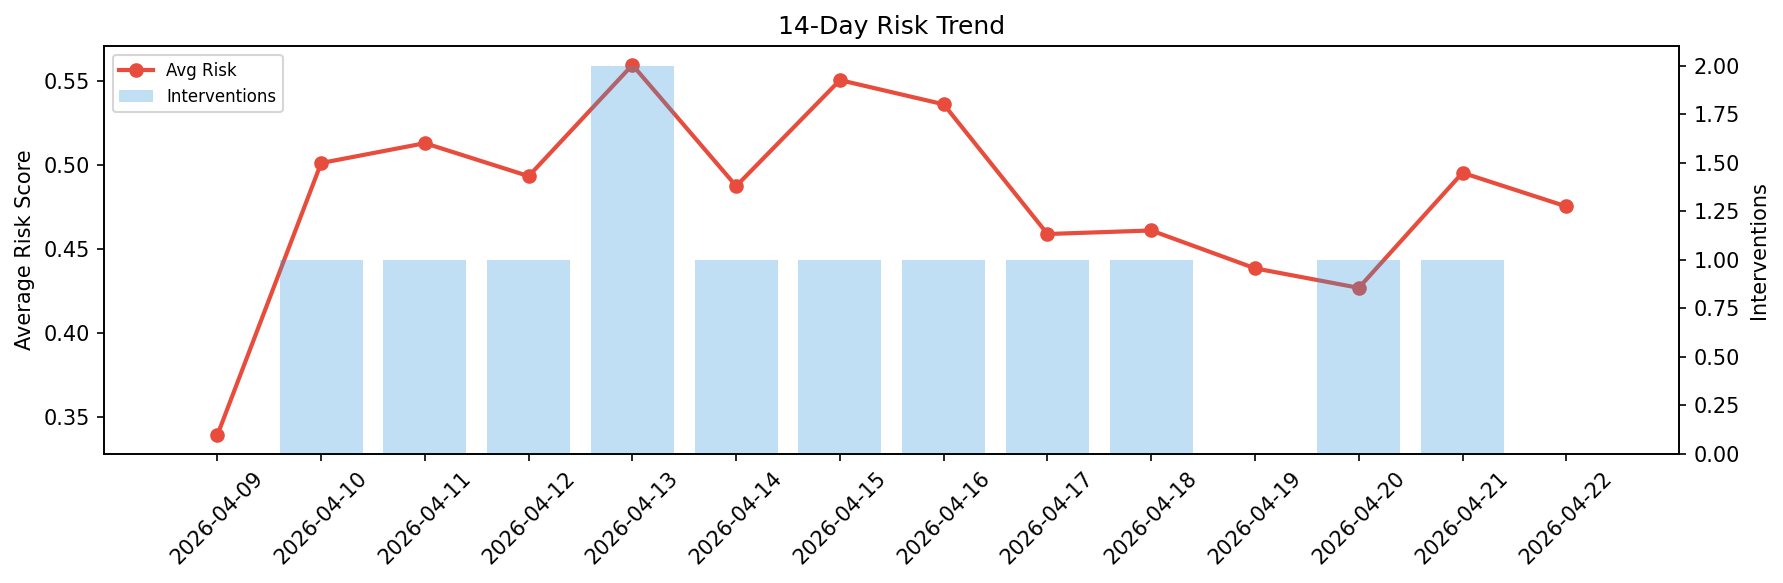
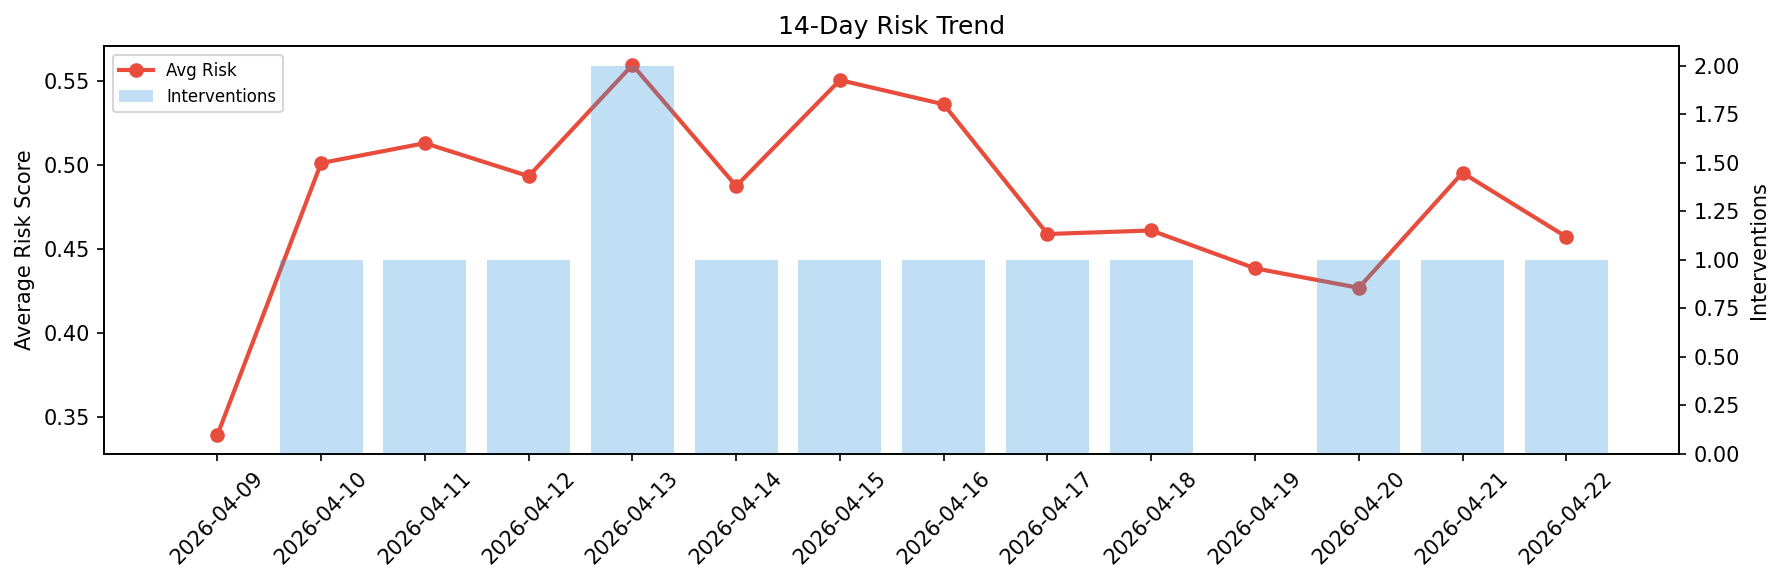
agent-improvement: daily cycle 2026-04-22T21:08

Changed region(s): [[0.8329, 0.3087, 0.9254, 0.8027]]

diff --git a/logs/2026-04-22.md b/logs/2026-04-22.md
@@ -1,6 +1,6 @@
 # Agent Improvement Report — 2026-04-22
 
-**Cycle ID:** `094bee72` | **Avg Risk:** 0.4753 | **Interventions:** 0/4
+**Cycle ID:** `2344168b` | **Avg Risk:** 0.4572 | **Interventions:** 1/4
 
 ![Dashboard](2026-04-22_dashboard.png)
 
@@ -10,18 +10,18 @@
 
 | Domain | Risk Score | Decision | Alerts |
 |--------|-----------|----------|--------|
-| code_review | 0.4359 | monitor | none |
-| incident_response | 0.3632 | monitor | none |
-| data_pipeline | 0.5945 | monitor | freshness, schema_drift |
-| deployment | 0.5076 | monitor | none |
+| code_review | 0.6207 | intervene | duplication |
+| incident_response | 0.4591 | monitor | none |
+| data_pipeline | 0.3047 | monitor | none |
+| deployment | 0.4444 | monitor | canary_error |
 
 ## Delta vs Yesterday
 
 | Domain | Today | Yesterday | Change |
 |--------|-------|-----------|--------|
-| code_review | 0.4359 | 0.4449 | 📉 -2.0% |
-| incident_response | 0.3632 | 0.7048 | 📉 -48.5% |
-| data_pipeline | 0.5945 | 0.4874 | 📈 22.0% |
-| deployment | 0.5076 | 0.3441 | 📈 47.5% |
+| code_review | 0.6207 | 0.4449 | 📈 39.5% |
+| incident_response | 0.4591 | 0.7048 | 📉 -34.9% |
+| data_pipeline | 0.3047 | 0.4874 | 📉 -37.5% |
+| deployment | 0.4444 | 0.3441 | 📈 29.1% |
 
-**Refinement:** `{'adjustment': 'tighten_thresholds', 'trend': 'degrading', 'window': 4}`
+**Refinement:** `{'adjustment': 'maintain', 'trend': 'improving', 'window': 4}`
